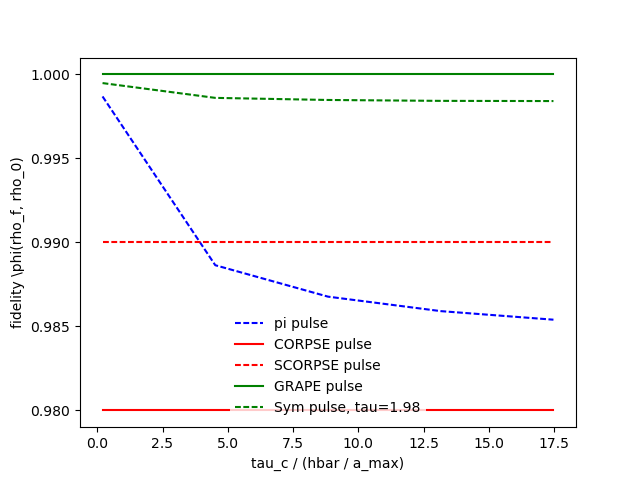
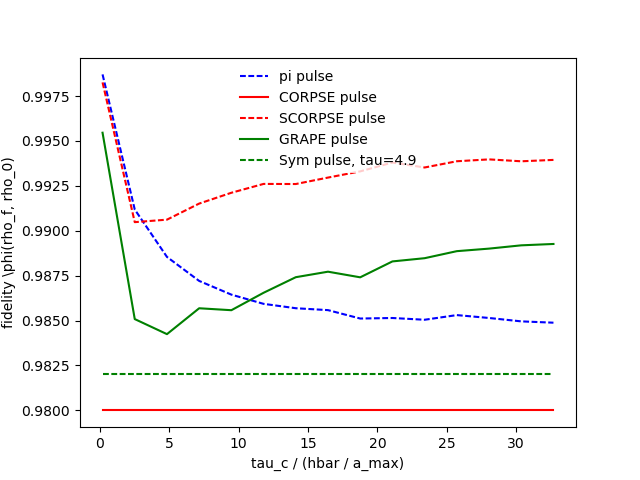
start checking other x^2 fourier

diff --git a/sousa06/findPulse.py b/sousa06/findPulse.py
@@ -105,13 +105,27 @@ def a_SC(t):
         return -a_max
     return 0
 
+# parabolic pulse
+# positive - 0, vs positive - negative
+# parameters: width, number of periods, phase?
+
+def x2p(width, periods):
+    def pulse(t):
+        if t < 0:
+            return 0
+        if t > width * periods:
+            return 0
+        # return (((t % width) - (width/2.0)) ** 2)/a_max
+        return (((t % width) - (width/2.0)) ** 2)/(2*a_max) - a_max
+    return pulse
+
 ###### Sym/Antisym pulses
 # 2.0 for "normal"
 # ~4.6 for "capped"
 # ~7.8 for normed
-tau = (5.1 * pi / 3) * hoa # Electron relaxation time; idk the "real" value :)
+tau = (4.6 * pi / 3) * hoa # Electron relaxation time; idk the "real" value :)
 # See paper by S. Pasini for constants
-a1_sym = -2.159224
+a1_sym = -2.159224 # this is real good :)
 a2_sym = -5.015588
 a1_asym = 5.263022
 b1_asym = 17.850535
@@ -120,19 +134,24 @@ b2_asym = 15.634390 # * (1/tau)
 # Makes X(t) driving pulse function
 # theta is either pi or pi/2
 # a, b are constants
-# This pulse lasts a single period: 0 -> tau
+# This pulse lasts a 1.5 periods: 0 -> tau * 1.5
+# Why 1.5? You will notice the error-correcting pulses, SCORPSE
+# and CORPSE, do so.
+endpulse = tau*1.5
 def X_factory(theta, a, b, antisym, tau=tau):
     norm = -2.0 * a + theta
     def X_sym(t):
         if t < 0:
             return 0
-        elif t > tau:
+        elif t > endpulse:
             return 0
+        t += tau * 0.75 # start at a min point, like SCORPSE
         _1 = theta / 2
         _2 = (a - _1) * cos((2 * pi  / tau) * t)
         _3 = a * cos((4 * pi  / tau) * t)
         return minabs((_1 + _2 - _3) * a_max, a_max) # capped
         # return (_1 + _2 - _3) * a_max / norm # normed
+        # return invertcap((_1 + _2 - _3) * a_max, a_max) # inverted
 
     def X_antisym(t):
         if t < 0:
@@ -144,6 +163,7 @@ def X_factory(theta, a, b, antisym, tau=tau):
         _3 = (b/2) * sin((4 * pi  / tau) * t)
         return minabs((_1 + _2 - _3) * a_max, a_max)
         # return (_1 + _2 - _3) * a_max / norm
+        # return invertcap((_1 + _2 - _3) * a_max, a_max) # inverted
 
     # def s(t):
     #     if t <= 0 or t > pi:
@@ -160,6 +180,9 @@ def minabs(x, y):
     if x < 0:
         return -y
     return y
+
+def invertcap(x, y):
+    return pow(-1, int(x/y))* x % y
 
 # sym_pi = X_factory(pi, a1_asym, b1_asym, True)
 
@@ -447,7 +470,7 @@ times = [0.2* hoa, 3.0* hoa, 15.0* hoa]
 ###
 # Performance Params
 ###
-N = 420 # number of RTN trajectories
+N = 1420 # number of RTN trajectories
 stepsize = 0.024 # Step-forward matrices step size, dont lower
 
 ###
@@ -464,14 +487,24 @@ if not profiling and parallel:
 #     tau_c += dtau_c
 #     tau_cs.append(tau_c)
 # tau_cs =
-tau_start = ( 4.1 * pi / 3 )* hoa
-tau_end = ( 7. * pi / 3 )* hoa
-dtau = 0.1 * hoa
+# tau_start = ( 1.95 * pi / 3 )* hoa
+# tau_end = ( 2.25 * pi / 3 )* hoa
+tau_start = (6.6 * pi / 3) * hoa
+tau_end = (7.4 * pi / 3) * hoa
+dtau = 0.03 * hoa
 t_ = tau_start
 taus = []
 while t_ < tau_end:
     taus.append(t_)
     t_ += dtau
+a_start = -3.0
+a_end = 3.0
+da = 0.05
+alist = []
+a_ = a_start
+while a_ <= a_end:
+    alist.append(a_)
+    a_ += da
 # sym_pis = [X_factory(pi, a1_sym, 0, False, tau=t_) for t_ in taus]
 sym1 = []
 sym3 = []
@@ -502,36 +535,75 @@ plt.legend(loc='best')
 plt.show()
 plt.pause(0.0001)
 
+def SCORPSEfac(partition):
+    def a_SC(t):
+        if t <= 0:
+            return 0
+        if t < ((pi / 3) * hoa):
+            return -a_max
+        if t <= 2 * pi * hoa:
+            return a_max
+        if t < (partition):
+            return -a_max
+        return 0
+    return a_SC
+
 
 start = time.time()
 prev_time = -1
-for i in range(len(taus)):
-    tau = taus[i]
+# xlist = [1,2,3,4] # periods
+periodlist = list(np.arange(0.5, 5.1, 0.5)) # period
+# width ~ pi is nice
+widthlist = list(np.arange(0.5*np.pi, 2.01*pi, 0.1*pi)) # width
+# widthlist = list(np.arange(3.5*np.pi, 5.01*pi, 0.1*pi)) # width
+width_period_list = list([(w,p) for p in periodlist for w in widthlist])
+xlist = widthlist
+# w_start = 0.5*np.pi
+# w_end = 2.0*np.pi
+# w_ = w_start
+# while w_ <= w_end:
+#     xlist.append()
+#     w_ += dw
+for i in range(len(xlist)):
+    # tau = taus[i]
+    # a_sym = alist[i]
+    print r"%i/%i"%(i, len(xlist))
+    # x = a_sym
+    w = xlist[i]
+    # x = w + (4. * np.pi * p)
+    x = w
+    p_t.append(x)
 
-    p_t.append(tau)
-    sym_pi = X_factory(pi, a2_sym / tau, 0, False, tau=tau)
-    sym_pi = X_factory(pi, a1_asym / tau, b1_asym/tau, True, tau=tau)
+    # sym_pi is a wrong name :)
+    # sym_pi = x2p(np.pi, x) # vary periods
+    # didn't seem like 2+ periods were different
+    # sym_pi = x2p(x, 2.0) # vary width
+    sym_pi = x2p(w, 2.0) # vary both
+
+    # sym_pi = X_factory(pi, a_sym / tau, 0, False, tau=tau)
+    # sym_pi = X_factory(pi, a1_asym / tau, b1_asym/tau, True, tau=tau)
     # sym_pi = X_factory(pi, a2_asym / tau, b2_asym/tau, True, tau=tau)
-    sym_pi = X_factory(pi, a1_sym / tau, 0, False, tau=tau)
+    # sym_pi = X_factory(pi, a1_sym / tau, 0, False, tau=tau)
+    # sym_pi = SCORPSEfac(tau)
 
     rho_sym, us = ezGenerate_Rho(sym_pi, t_end, times[0], eta_0, rho_0, N, stepsize)
     fid_sym = fidSingleTxDirect(rho_f, rho_sym, tau)
     sym1.append(fid_sym)
 
     if fid_sym > 0.990:
-        print("1@ " + str(tau) + ", " + str(fid_sym))
+        print("1@ " + str(x) + ", " + str(fid_sym))
 
     rho_sym, us = ezGenerate_Rho(sym_pi, t_end, times[1], eta_0, rho_0, N, stepsize)
     fid_sym = fidSingleTxDirect(rho_f, rho_sym, tau)
     sym3.append(fid_sym)
     if fid_sym > 0.990:
-        print("3@ " + str(tau) + ", " + str(fid_sym))
+        print("3@ " + str(x) + ", " + str(fid_sym))
 
     rho_sym, us = ezGenerate_Rho(sym_pi, t_end, times[2], eta_0, rho_0, N, stepsize)
     fid_sym = fidSingleTxDirect(rho_f, rho_sym, tau)
     sym15.append(fid_sym)
     if fid_sym > 0.990:
-        print("15@ " + str(tau) + ", " + str(fid_sym))
+        print("15@ " + str(x) + ", " + str(fid_sym))
 
     update_plots(fig, ax, \
         [p1, p3, p15], \

diff --git a/sousa06/q2.py b/sousa06/q2.py
@@ -104,6 +104,16 @@ def a_SC(t):
     if t < (T_SC):
         return -a_max
     return 0
+def a_SC2(t):
+    if t <= 0:
+        return 0
+    if t < ((pi / 3) * hoa):
+        return -a_max
+    if t <= (5.18 * hoa):
+        return a_max
+    if t < (T_SC):
+        return -a_max
+    return 0
 
 ###### Sym/Antisym pulses
 # 2.0 for "normal"
@@ -152,6 +162,16 @@ def minabs(x, y):
     if x < 0:
         return -y
     return y
+
+def x2p(width, periods):
+    def pulse(t):
+        if t < 0:
+            return 0
+        if t > width * periods:
+            return 0
+        # return (((t % width) - (width/2.0)) ** 2)/a_max
+        return (((t % width) - (width/2.0)) ** 2)/(2*a_max) - a_max
+    return pulse
 
 sym_pi = X_factory(pi, a1_sym, 0, False)
 # sym_pi = X_factory(pi, a1_asym, b1_asym, True)
@@ -500,9 +520,9 @@ def GRAPE(T, n, N, rho_0, rho_f, tau_c, eta_0, stepsize, amps, epsilon=0.01):
         # Eq. 13
         new_amp = a_m + epsilon*a_max*d_phi_d_am
         if new_amp <= -a_max:
-            new_amp = .95 * -a_max
+            new_amp = .99 * -a_max
         if new_amp >= a_max:
-            new_amp = .95 * a_max
+            new_amp = .99 * a_max
         # new_amp = max(new_amp, -a_max)
         # new_amp = min(new_amp, a_max)
         return new_amp
@@ -594,8 +614,8 @@ tau_c_f = 32. * hoa
 ###
 # Performance Params
 ###
-dtau_c = .32 * hoa
-N = 4000 # number of RTN trajectories
+dtau_c = 2.32 * hoa
+N = 3000 # number of RTN trajectories
 stepsize = 0.022 # Step-forward matrices step size, dont lower
 
 ###
@@ -634,20 +654,24 @@ if checkGrape:
     plt.show()
     raw_input()
 
-T_G = 5. * hoa # sousa figure 2
-n = 8 # number of different pulse amplitudes
-epsilon = 0.009 # amount each gradient step can influence amps
-grape_steps = 3000 # number of optimization steps
+T_G = 7*pi/3. * hoa # sousa figure 2
+n = 7 # number of different pulse amplitudes
+epsilon = 0.025 # amount each gradient step can influence amps
+grape_steps = 2500 # number of optimization steps
 ### Grape
+# doGrape = True
 doGrape = False
 if doGrape:
-    tau_grape = 5.
-    init_amps = [a_max for i in range(n)]
+    tau_grape = 30.
+    # init_amps = [a_max for i in range(n)]
+    inits = [-0.7,0.7,0.7,0.7,0.7,0.7,-0.7]
+    # inits = [-0.98,0.98,0.98,0.98,0.98,0.98,-0.98]
+    init_amps = [x*a_max for x in inits]
     grape_amps = init_amps
     for i in range(grape_steps):
         start = time.time()
         grape_amps = GRAPE(T_G, n, 42, rho_0, rho_f, tau_grape, eta_0, stepsize, grape_amps, epsilon)
-        print("grapestep: " + str(time.time() - start))
+        print("grapestep "+str(i)+": " + str(time.time() - start))
         print(grape_amps)
     np.savetxt("data/grape_pulse.txt", grape_amps)
     grape_pulse = aggAmps(grape_amps, T_G)
@@ -718,7 +742,7 @@ p_pi, = plt.plot(p_t, fids_pi, 'b--', label="pi pulse")
 p_c, = plt.plot(p_t, fids_C, 'r-', label="CORPSE pulse")
 p_sc, = plt.plot(p_t, fids_SC, 'r--', label="SCORPSE pulse")
 p_g, = plt.plot(p_t, fids_G, 'g-', label="GRAPE pulse")
-p_sym, = plt.plot(p_t, fids_sym, 'g--', label=sym_label)
+p_sym, = plt.plot(p_t, fids_sym, 'g--', label=r"$f(x) = x^2$; width $\pi$, 2 periods, range $-a_{max}$ to $a_{max}$")
 
 plt.xlabel("tau_c / (hbar / a_max)")
 plt.ylabel("fidelity \\phi(rho_f, rho_0)")
@@ -760,6 +784,7 @@ for i in range(len(tau_cs)):
 
     doC = False
     doSC = True
+    doSym = True
 
     rho_pi, Us = ezGenerate_Rho(a_pi, t_end, tau_c, eta_0, rho_0, N, stepsize)
     fid_pi = fidSingleTxDirect(rho_f, rho_pi, T_pi)
@@ -779,9 +804,16 @@ for i in range(len(tau_cs)):
     else:
         fids_SC.append(0.99)
 
-    rho_sym, us = ezGenerate_Rho(sym_pi, t_end, tau_c, eta_0, rho_0, N, stepsize)
-    fid_sym = fidSingleTxDirect(rho_f, rho_sym, tau)
-    fids_sym.append(fid_sym)
+    # rho_sym, us = ezGenerate_Rho(sym_pi, t_end, tau_c, eta_0, rho_0, N, stepsize)
+    # fid_sym = fidSingleTxDirect(rho_f, rho_sym, tau)
+    # fids_sym.append(fid_sym)
+    mypulse = x2p(np.pi, 2.0)
+    if doSym:
+        rho_sym, us = ezGenerate_Rho(mypulse, t_end, tau_c, eta_0, rho_0, N, stepsize)
+        fid_sym = fidSingleTxDirect(rho_f, rho_sym, T_SC)
+        fids_sym.append(fid_sym)
+    else:
+        fids_sym.append(0.982)
 
     if doGrape:
         rho_G, Us = ezGenerate_Rho(grape_pulse, t_end, tau_c, eta_0, rho_0, N, stepsize)

diff --git a/sousa06/q1.py b/sousa06/q1.py
@@ -529,8 +529,8 @@ tau_c_f = 30. * hoa
 ###
 # Performance Params
 ###
-dtau_c = 0.32 * hoa
-N = 1600 # number of RTN trajectories
+dtau_c = 3.32 * hoa
+N = 400 # number of RTN trajectories
 stepsize = 0.025 # Step-forward matrices step size
 
 ###
@@ -569,15 +569,17 @@ if checkGrape:
     plt.show()
     raw_input()
 
-T_G = 5. * hoa # sousa figure 2
+# T_G = 5. * hoa # sousa figure 2
+T_G = T_SC # can just make them the same
 n = 8 # number of different pulse amplitudes
 epsilon = 0.009 # amount each gradient step can influence amps
 grape_steps = 3000 # number of optimization steps
 ### Grape
 doGrape = True
 if doGrape:
-    tau_grape = 5.
-    init_amps = [a_max for i in range(n)]
+    tau_grape = 30. # optimize for this point...
+    # init_amps = [a_max for i in range(n)]
+    init_amps = [x*a_max for x in [-1, -1, 1, 1, 1, 1, 1, -1]]
     grape_amps = init_amps
     for i in range(grape_steps):
         start = time.time()
